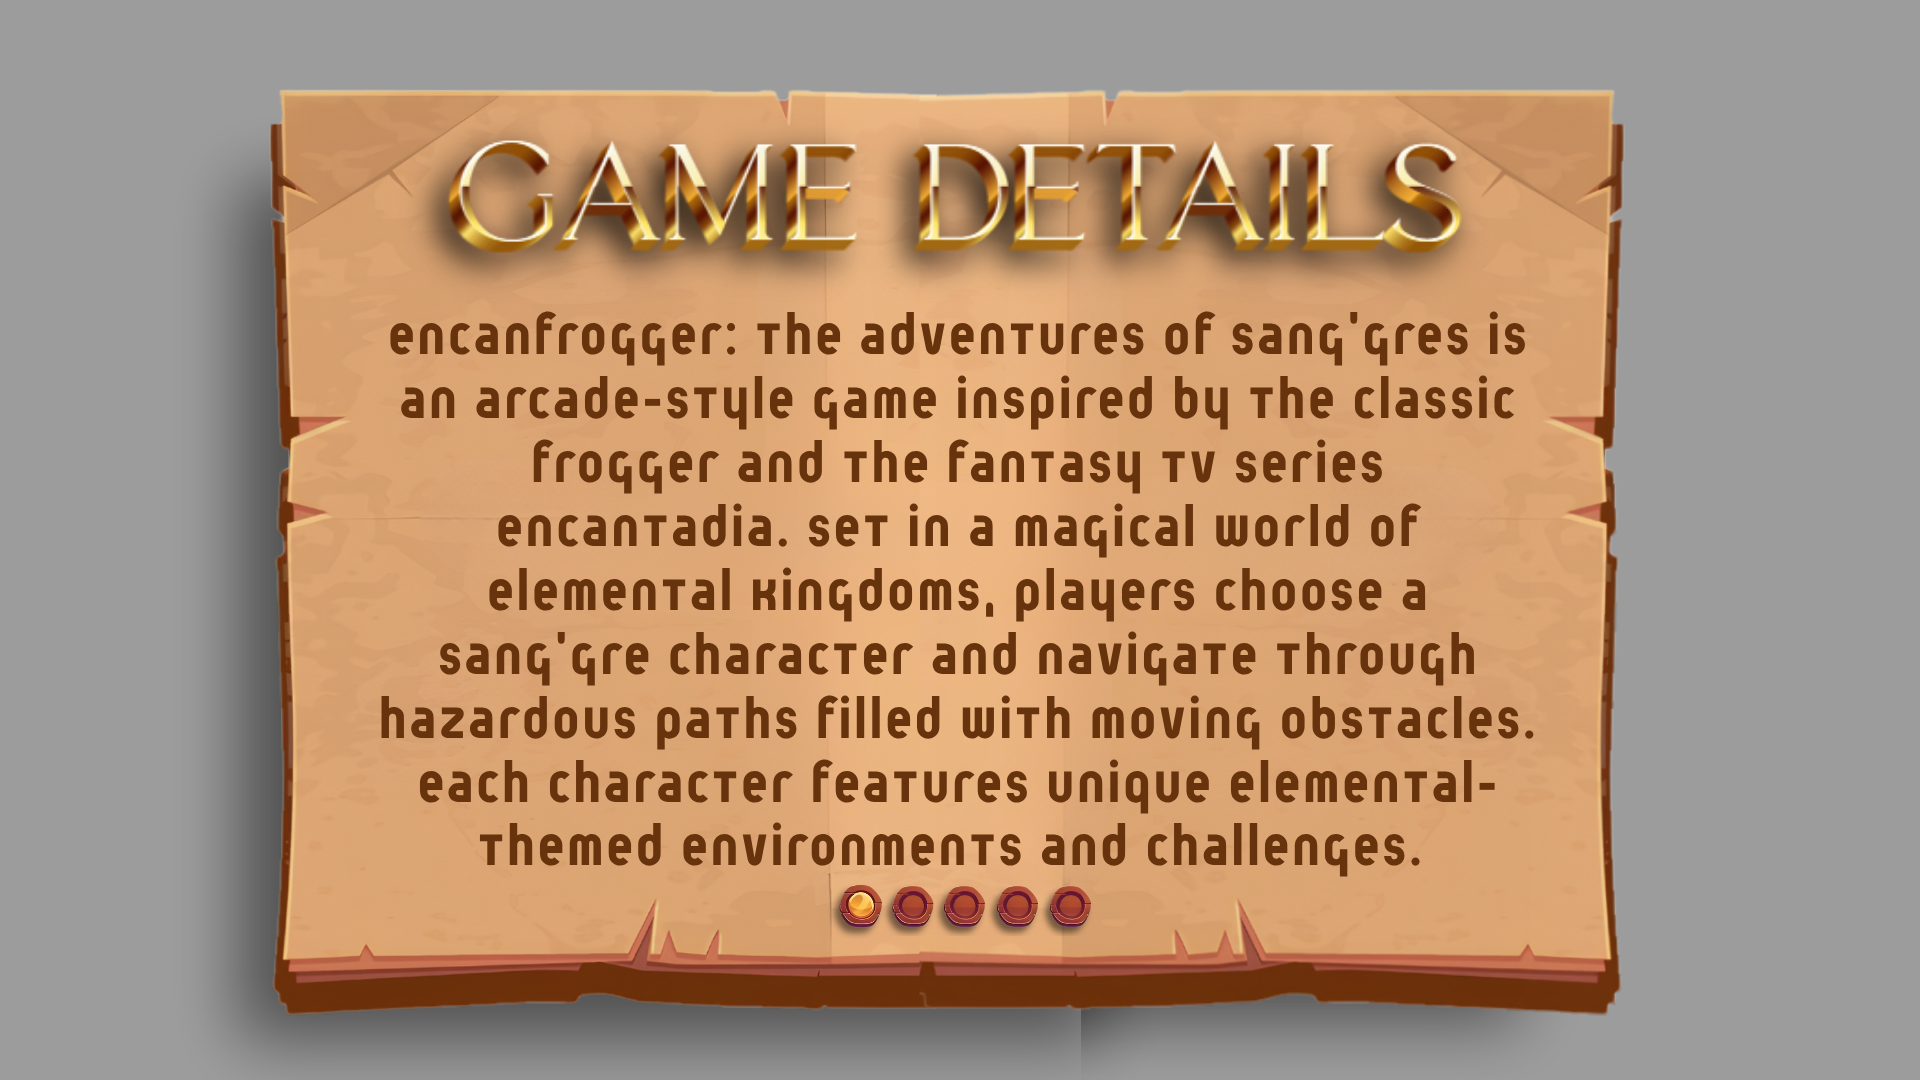
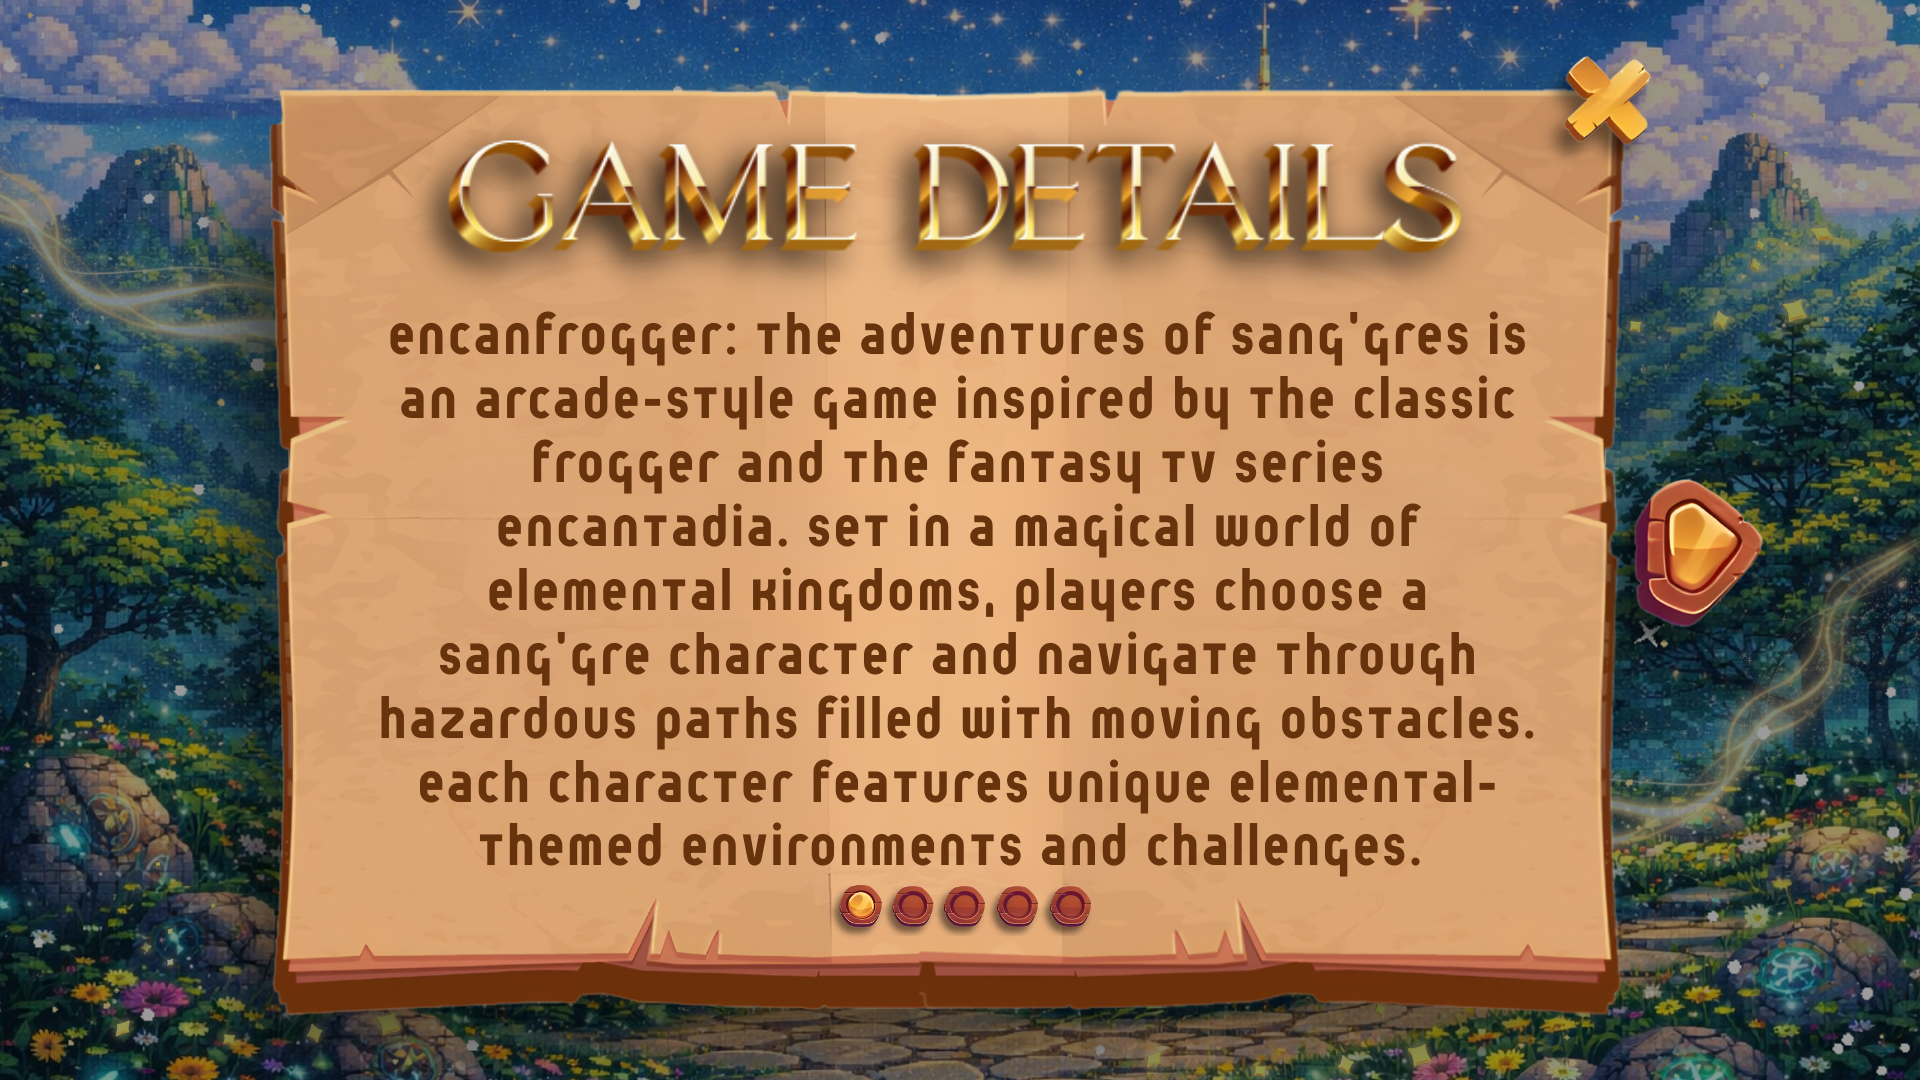
instructions page
to do: make the x button work. later nala diay okiiii

diff --git a/src/ui/InstructionsPanel.java b/src/ui/InstructionsPanel.java
@@ -1,0 +1,106 @@
+package ui;
+
+import assets.AssetManager;
+import main.GameLauncher;
+
+import javax.swing.*;
+import java.awt.*;
+import java.awt.event.KeyAdapter;
+import java.awt.event.KeyEvent;
+
+public class InstructionsPanel extends JPanel {
+
+    private GameLauncher parent;
+
+    // Array of instruction pages
+    private Image[] pages;
+
+    // Current page index
+    private int currentPage = 0;
+
+    public InstructionsPanel(GameLauncher parent) {
+        this.parent = parent;
+        setFocusable(true);
+        loadPages();
+        setupKeys();
+    }
+        private void setupKeys() {
+
+        addKeyListener(new KeyAdapter() {
+
+            @Override
+            public void keyPressed(KeyEvent e) {
+
+                switch (e.getKeyCode()) {
+
+                    // NEXT PAGE
+                    case KeyEvent.VK_RIGHT:
+
+                        if (currentPage < pages.length - 1) {
+
+                            currentPage++;
+                            repaint();
+
+                        } else {
+
+                            // Last page -> back to menu
+                            currentPage = 0;
+                            parent.showMainMenu();
+                        }
+
+                        break;
+
+                        // PREVIOUS PAGE
+                    case KeyEvent.VK_LEFT:
+
+                        if (currentPage > 0) {
+
+                            currentPage--;
+                            repaint();
+                        }
+
+                        break;
+
+                    // EXIT INSTRUCTIONS
+                    case KeyEvent.VK_ESCAPE:
+
+                        currentPage = 0;
+                        parent.showMainMenu();
+
+                        break;
+                }
+            }
+        });
+    
+    }
+
+    private void loadPages() {
+
+    pages = new Image[] {
+
+            AssetManager.getInstance().getBackground("instruction1"),
+            AssetManager.getInstance().getBackground("instruction2"),
+            AssetManager.getInstance().getBackground("instruction3"),
+            AssetManager.getInstance().getBackground("instruction4"),
+            AssetManager.getInstance().getBackground("instruction5")
+    };
+}
+
+    @Override
+    protected void paintComponent(Graphics g) {
+        super.paintComponent(g);
+
+        if(pages[currentPage] != null) {
+            g.drawImage(
+                    pages[currentPage],
+                    0,
+                    0,
+                    getWidth(),
+                    getHeight(),
+                    this
+            );
+        }
+
+    
+    }
+}

diff --git a/src/main/GameLauncher.java b/src/main/GameLauncher.java
@@ -2,6 +2,7 @@ package main;
 
 import assets.AssetManager;
 import core.GamePanel;
+import ui.InstructionsPanel;
 import java.awt.*;
 import java.awt.event.*;
 import javax.swing.*;
@@ -14,6 +15,7 @@ public class GameLauncher extends JFrame {
 
     private final TitlePanel gameLaunch;
     private final MainPanel secondPage;
+    private final InstructionsPanel instructionsPanel;
     private final GamePanel gamePanel;
 
     public GameLauncher() {
@@ -28,10 +30,12 @@ public class GameLauncher extends JFrame {
 
         gameLaunch = new TitlePanel(this);
         secondPage = new MainPanel(this);
+        instructionsPanel = new InstructionsPanel(this);
         gamePanel = new GamePanel(this);
 
         mainPanel.add(gameLaunch, "Launch");
         mainPanel.add(secondPage, "Menu");
+        mainPanel.add(instructionsPanel, "Instructions");
         mainPanel.add(gamePanel, "Game");
 
         add(mainPanel);
@@ -85,6 +89,18 @@ public class GameLauncher extends JFrame {
     public void menuGame() {
         cardLayout.show(mainPanel, "Menu");
     }
+
+    public void showMainMenu() {
+        cardLayout.show(mainPanel, "Menu");
+}
+
+    public void showInstructions() {
+        cardLayout.show(mainPanel, "Instructions");
+
+    SwingUtilities.invokeLater(() -> {
+        instructionsPanel.requestFocusInWindow();
+    });
+}
 
     public void startGame() {
         cardLayout.show(mainPanel, "Game");

diff --git a/src/assets/AssetManager.java b/src/assets/AssetManager.java
@@ -92,6 +92,12 @@ public class AssetManager {
         backgrounds.put("characterSelect", loadImage("assets/Backgrounds/chooseCharacterBackground.png"));
         backgrounds.put("mapSelect", loadImage("assets/Backgrounds/mapSelectBackground.png"));
         backgrounds.put("leaderboard", loadImage("assets/Backgrounds/leaderboardPanel.png"));
+
+        backgrounds.put("instruction1", loadImage("assets/instructions/page1.png"));
+        backgrounds.put("instruction2", loadImage("assets/instructions/page2.png"));
+        backgrounds.put("instruction3", loadImage("assets/instructions/page3.png"));
+        backgrounds.put("instruction4", loadImage("assets/instructions/page4.png"));
+        backgrounds.put("instruction5", loadImage("assets/instructions/page5.png"));
     }
 
     private void loadButtons() {

diff --git a/src/main/MainPanel.java b/src/main/MainPanel.java
@@ -52,7 +52,7 @@ public class MainPanel extends JPanel {
         add(buttonPanel);
 
         startBttn.addActionListener(e -> parent.startGame());
-        menuBttn.addActionListener(e -> parent.menuGame());
+        menuBttn.addActionListener(e -> parent.showInstructions());
         exitBttn.addActionListener(e -> System.exit(0));
     }
 
